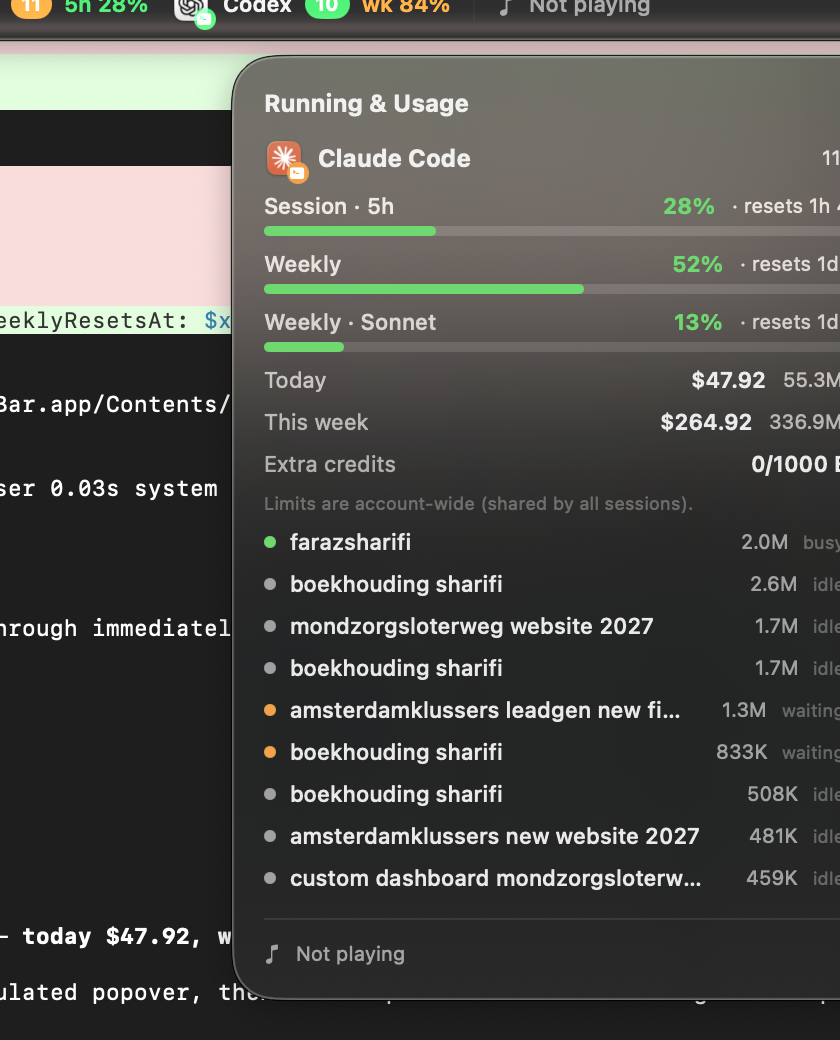
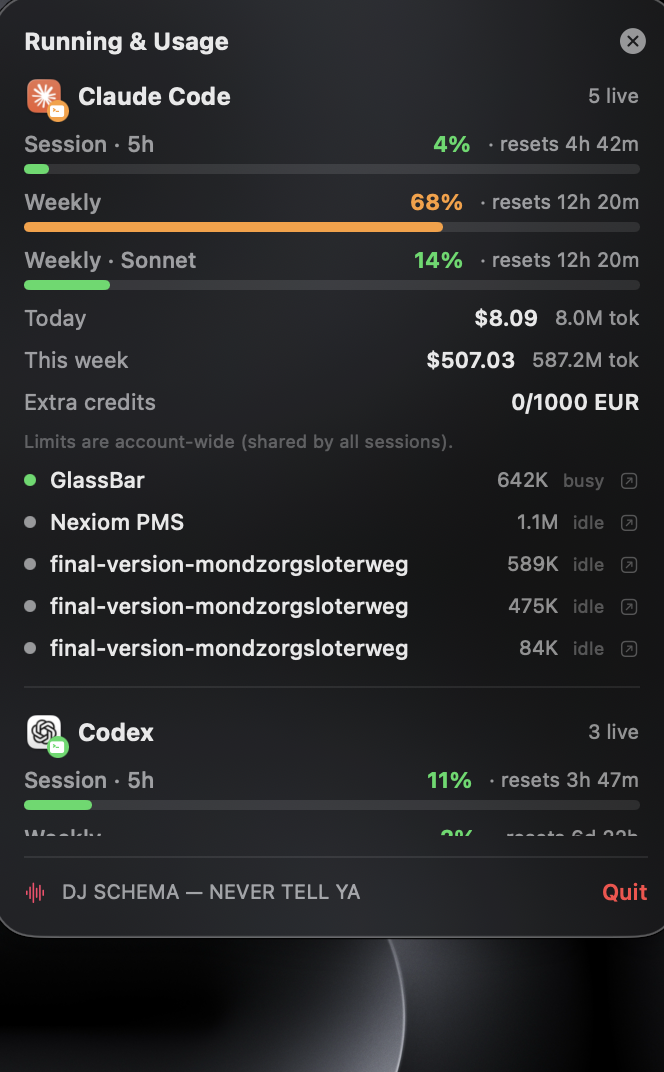
Refresh screenshots and rewrite README for current feature set
- New bar + popover screenshots showing the 4 app icons, media transport
  controls, keep-awake toggle, and the full Running & Usage popover
- Add a Highlights overview and a dedicated "Keep awake" section with an
  AC-vs-battery table; reorganize into Install / Update & uninstall

diff --git a/README.md b/README.md
@@ -1,21 +1,30 @@
 # GlassBar
 
-A tiny **Liquid Glass status HUD** that floats at the top of your Mac and shows, in one glance, **what's running** across your AI / dev tools, **how much of your plan you've used**, and **what's playing** — without touching your Dock or menu bar. **Drag it anywhere** and it remembers where you put it. When a session finishes, a little **mascot crawls across your screen** and you get a notification.
+**A Liquid Glass status HUD for your Mac.** GlassBar floats a single translucent capsule at the top of your screen that shows — at a glance — **what's running** across your AI / dev tools, **how much of your Claude & Codex plan you've used**, and **what's playing**, without ever touching your Dock or menu bar. Drag it anywhere and it remembers. When a session finishes, a **pixel‑art crab scuttles across your screen** and you get a notification.
 
 ![GlassBar bar](docs/screenshot.png)
+
+## Highlights
+
+- **Live AI session tracking** — Claude Code & Codex session counts, real plan limits, and per‑session token usage.
+- **☕ Keep awake** — close your laptop lid without the Mac sleeping, so long‑running sessions keep going (works on **AC *and* battery**).
+- **Now playing + transport** — see and control the current track (⏮ ▶/⏸ ⏭) right from the bar.
+- **Movable & persistent** — drag the bar anywhere; its position is restored on launch.
+- **Finish alerts + mascots** — a hand‑drawn pixel crab announces completed sessions, with a tap‑to‑focus notification.
+- **100% local** — reads your own files and account; no third‑party services.
 
 ## The bar
 
 Left → right:
 
-- **App logos** — VS Code · Cursor · Claude desktop · ChatGPT. Full‑color when running, dimmed when not. **Click one to focus it** (or launch it if it's closed).
-- **Claude Code** — Claude logo + live **session count** + your real **5‑hour limit used** (e.g. `5h 28%`), colored green/orange/red. **Click to jump to the latest session.**
+- **App logos** — VS Code · Cursor · Claude desktop · ChatGPT. Full‑color when running, dimmed when not. **Click to focus** (or launch if it's closed).
+- **Claude Code** — Claude logo + live **session count** + your real **5‑hour limit used** (e.g. `5h 28%`), colored green / orange / red. **Click to jump to the latest session.**
 - **Codex** — OpenAI logo + session count + **weekly limit used** (e.g. `wk 84%`). **Click to open the latest session.**
-- **♪** — system‑wide **now‑playing** track (the app making sound, or *Not playing*), with **⏮ previous · ▶/⏸ play‑pause · ⏭ next** controls.
-- **☕ Keep awake** — toggle on to **close the lid without sleeping**, so running sessions keep going. Orange when active. See below.
+- **♪ Now playing** — the current track (or the app making sound, or *Not playing*), with **⏮ previous · ▶/⏸ play‑pause · ⏭ next** controls.
+- **☕ Keep awake** — toggle to keep the Mac awake with the lid closed; glows **orange** when active ([details below](#keep-your-sessions-alive-with-the-lid-closed)).
 - **⌄** — opens the **Running & Usage** popover.
 
-> Tip: the bar is **movable** — drag it by any empty area to reposition it; it stays put and is restored on next launch.
+> **Tip:** the bar is **movable** — drag it by any empty area to reposition it; it stays put and is restored on next launch.
 
 ## The popover
 
@@ -23,15 +32,29 @@ Left → right:
 
 Click the chevron for the full breakdown:
 
-- **Real plan limits** — Session (5‑hour), Weekly, and Sonnet/Opus utilization with reset countdowns.
+- **Real plan limits** — Session (5‑hour), Weekly, and Sonnet / Opus utilization with reset countdowns.
 - **Spend** — today and this‑week cost + tokens, plus extra‑credit balance.
-- **Live sessions** — every running session with its **project folder**, **per‑session token usage**, and **busy / waiting / idle** status. **Click a session to jump to the terminal/editor running it.**
+- **Live sessions** — every running session with its **project folder**, **per‑session token usage**, and **busy / waiting / idle** status. **Click a session to jump to the terminal / editor running it.**
 
 Close it with the **×**, the chevron, or by **clicking anywhere outside**.
 
-## Session‑done mascots + notifications
+## Keep your sessions alive with the lid closed
 
-When a Claude Code session goes from *busy* back to idle (work finished), a **hand-drawn pixel-art crab scuttles across the bottom of your screen** (legs animated) with the project name, and you get a macOS notification — **tap it to jump straight to that session**. Claude's crab is coral, Codex's is green. The sprite is defined as a pixel grid (`CRAB_BODY` / `CRAB_LEGS`) in `main.swift` — easy to redraw.
+The **☕ coffee‑cup** toggle lets you **close your laptop screen without the Mac going to sleep**, so running Claude Code / Codex sessions keep working. The icon glows **orange** while active, and the setting is remembered across launches.
+
+| Power source | How it stays awake | Prompt |
+|---|---|---|
+| **AC (plugged in)** | In‑process power assertion — same mechanism as `caffeinate -s` | none |
+| **Battery** | Additionally sets `pmset disablesleep` system‑wide | admin password, once |
+
+- **The screen always turns off when the lid closes — that's expected.** Only the *system* stays awake underneath, so your sessions keep running.
+- **To restore normal sleep, toggle it off** (asks for your password again on battery).
+- Quitting GlassBar while it's on does **not** auto‑revert the battery setting — turn the toggle off, or run `sudo pmset -a disablesleep 0`.
+- ⚠ Running real compute in a **closed laptop on battery** generates heat — don't leave it sealed in a bag.
+
+## Session‑done mascots & notifications
+
+When a Claude Code session goes from *busy* back to idle (work finished), a **hand‑drawn pixel‑art crab scuttles across the bottom of your screen** (legs animated) with the project name, and you get a macOS notification — **tap it to jump straight to that session**. Claude's crab is coral, Codex's is green. The sprite is defined as a pixel grid (`CRAB_BODY` / `CRAB_LEGS`) in `main.swift` — easy to redraw.
 
 ## How it works (data sources)
 
@@ -47,7 +70,7 @@ Everything is read from **local data + your own account** — no third‑party s
 | Codex limits + tokens | newest `~/.codex/sessions/**` rollout (`rate_limits`, `total_token_usage`) |
 | Now playing | [`media-control`](https://github.com/ungive/media-control) → app name → CoreAudio "audio playing" |
 
-The bar (running state, now‑playing, sessions) refreshes every 3 s; usage/limits every 60 s. The slow parts (`ccusage`, per‑session tokens) are computed in the background into caches so the helper script always returns in < 0.1 s.
+The bar (running state, now‑playing, sessions) refreshes every 3 s; usage / limits every 60 s. The slow parts (`ccusage`, per‑session tokens) are computed in the background into caches so the helper script always returns in < 0.1 s.
 
 > **Claude limits** are **account‑wide** — shared by *all* your Claude sessions (that's how the plan works), so the popover shows the account limit plus the per‑session list. The first time GlassBar reads your Keychain token, macOS asks permission — click **Always Allow**. The `/usage` endpoint is rate‑limited, so GlassBar caches it for 5 minutes and reuses the last good value if a refresh is throttled.
 
@@ -61,7 +84,7 @@ The bar (running state, now‑playing, sessions) refreshes every 3 s; usage/limi
 - [`ccusage`](https://github.com/ryoppippi/ccusage): `npm install -g ccusage`
 - `jq`, `curl`, `security` — preinstalled on macOS.
 
-## Build & install
+## Install
 
 ```bash
 git clone https://github.com/Farazs27/glassbar.git
@@ -69,9 +92,11 @@ cd glassbar
 ./build.sh
 ```
 
-`build.sh` compiles a release binary, assembles `GlassBar.app`, installs it to `~/Applications`, registers a **login LaunchAgent** (auto‑start), clears any old instance, and launches it. Re‑run any time to update.
+`build.sh` compiles a release binary, assembles `GlassBar.app`, installs it to `~/Applications`, registers a **login LaunchAgent** (auto‑start), clears any old instance, and launches it.
 
-## Uninstall
+## Update & uninstall
+
+Re‑run `./build.sh` any time to rebuild and relaunch with the latest changes. To remove GlassBar completely:
 
 ```bash
 launchctl bootout "gui/$(id -u)/com.faraz.glassbar"
@@ -81,24 +106,15 @@ rm -rf ~/Applications/GlassBar.app ~/.cache/glassbar
 
 ## Customize
 
-- Watched GUI apps: `GUI_APPS` near the top of `Sources/GlassBar/main.swift` (find a bundle id with `osascript -e 'id of app "Name"'`).
-- Mascot crabs: edit the `CRAB_BODY` / `CRAB_LEGS` pixel grid or the `CRAB_CLAUDE` / `CRAB_CODEX` color maps in `main.swift`.
+- **Watched GUI apps** — `GUI_APPS` near the top of `Sources/GlassBar/main.swift` (find a bundle id with `osascript -e 'id of app "Name"'`).
+- **Mascot crabs** — edit the `CRAB_BODY` / `CRAB_LEGS` pixel grid or the `CRAB_CLAUDE` / `CRAB_CODEX` color maps in `main.swift`.
 
 Rebuild with `./build.sh`.
 
-## Keep awake (lid can close)
-
-The **☕ coffee‑cup** toggle in the bar lets you **close your laptop screen without the Mac sleeping**, so running Claude Code / Codex sessions keep working.
-
-- **On AC power** it uses an in‑process power assertion (the same mechanism as `caffeinate -s`) — instant, no password.
-- **On battery** macOS forces sleep on lid close, so the toggle *also* runs `pmset disablesleep` — this asks for your **admin password once** and disables lid‑close sleep system‑wide.
-- **To restore normal sleep, toggle it off** (asks for your password again). Quitting GlassBar while it's on does **not** auto‑revert the battery setting — turn the toggle off, or run `sudo pmset -a disablesleep 0`. The state (and the lit icon) is remembered across launches.
-- ⚠ Running real compute in a **closed laptop on battery** generates heat — don't leave it in a bag.
-
 ## Notes & limitations
 
-- Session counts reflect **live processes/sessions**, which for agentic setups can exceed your visible terminal windows.
-- Clicking a session focuses the **owning app** (terminal/editor); macOS can't reliably switch to the exact tab.
+- Session counts reflect **live processes / sessions**, which for agentic setups can exceed your visible terminal windows.
+- Clicking a session focuses the **owning app** (terminal / editor); macOS can't reliably switch to the exact tab.
 - `media-control` relies on a private MediaRemote bridge Apple has tightened before, so a future macOS update could affect now‑playing.
 
 ## License
